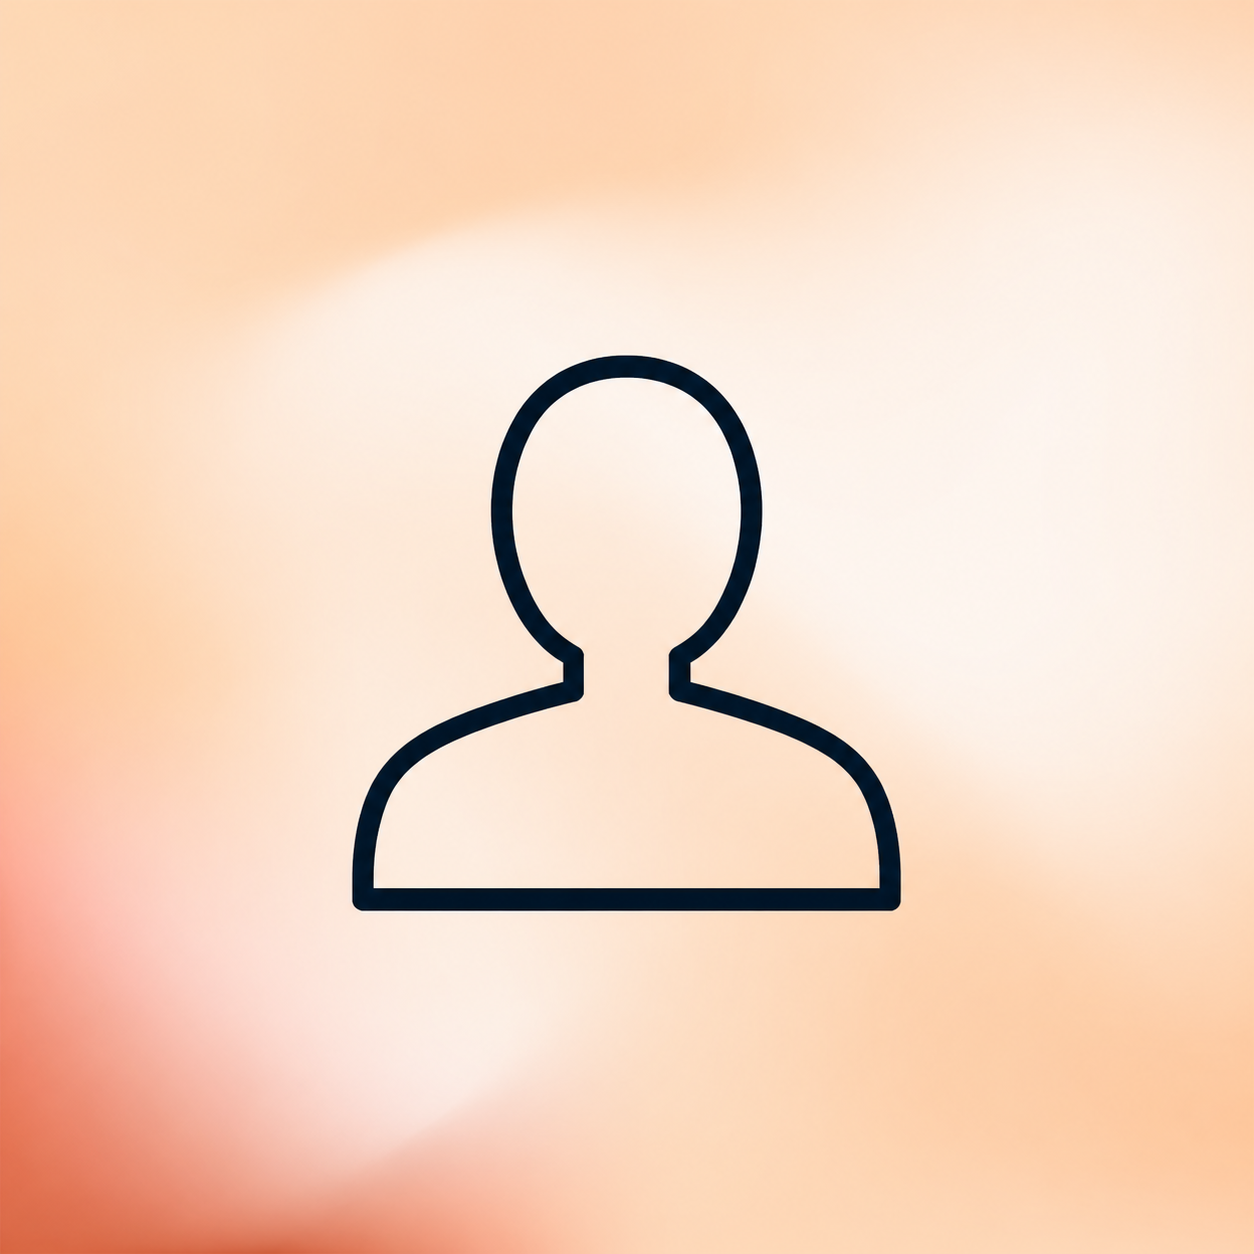
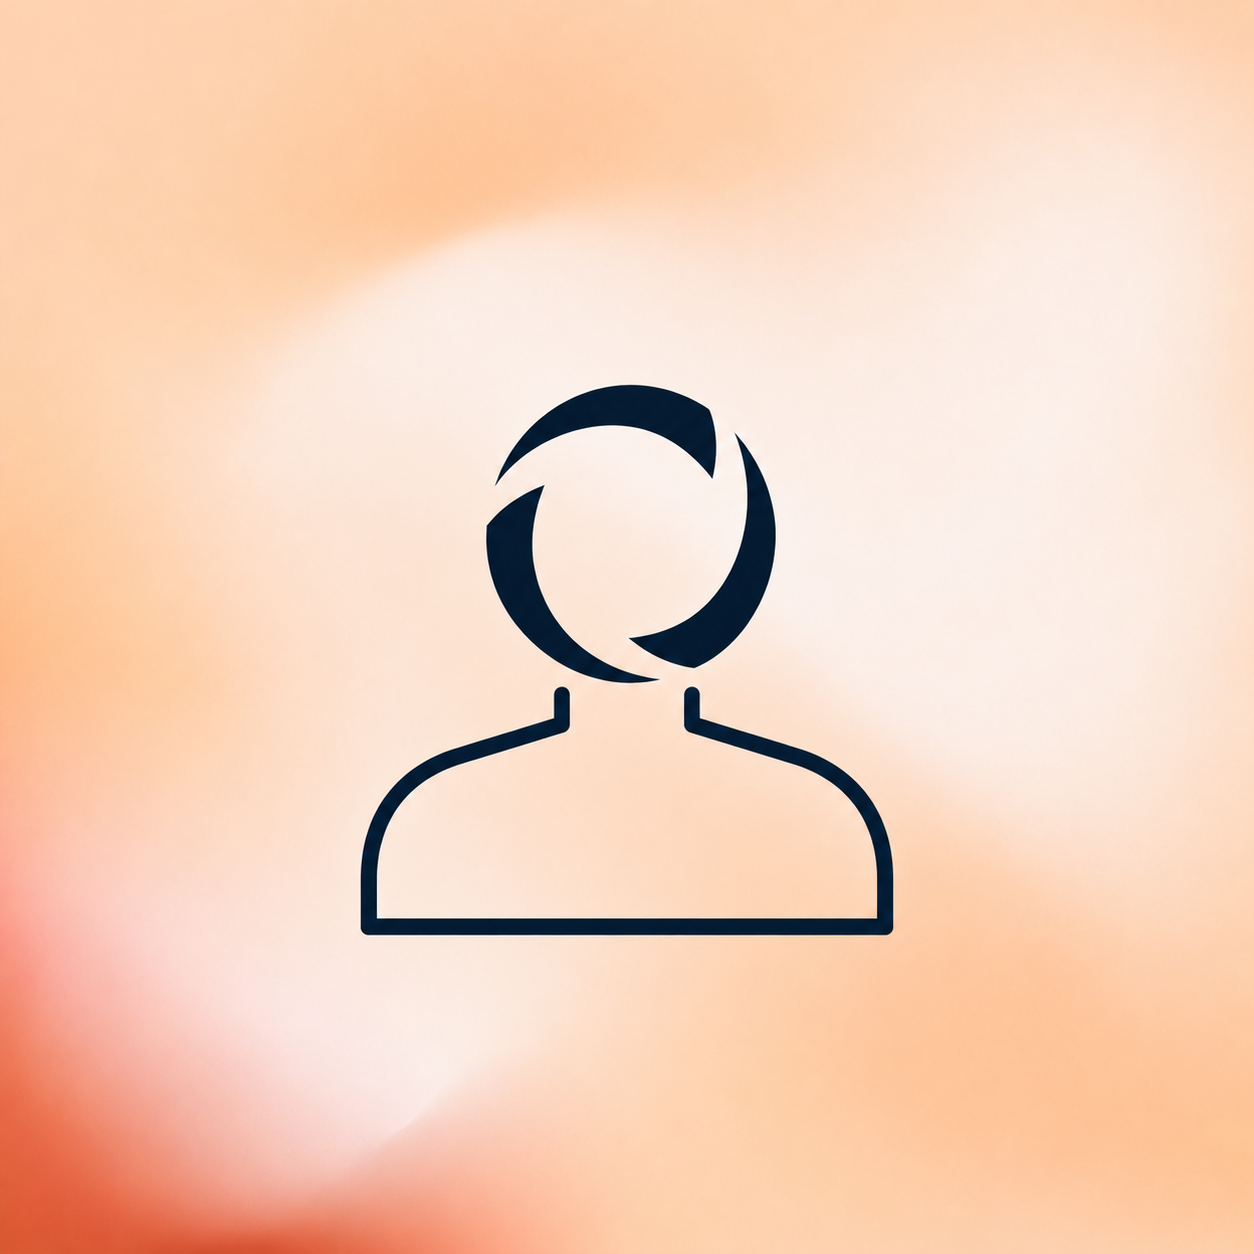
Update event years and speaker presentation

Changed region(s): [[0.2799, 0.2799, 0.7464, 0.7464], [0.2488, 0.1244, 0.3732, 0.2488], [0.1866, 0.9641, 0.2177, 0.9952]]

diff --git a/tests/speaker-sorting.test.ts b/tests/speaker-sorting.test.ts
@@ -1,0 +1,56 @@
+import { describe, expect, it } from "vitest";
+import { compareSpeakersBySurname } from "../src/utils/speaker-sorting";
+
+const canonicalNamesById = new Map([
+  ["peng-zhang", "Peng Zhang"],
+  ["shiwei-liu", "Shiwei Liu"],
+  ["sebastien-crozet", "Sébastien Crozet"],
+]);
+
+describe("speaker surname sorting", () => {
+  it("interleaves Chinese and English display names using canonical surnames", () => {
+    const speakers = [
+      { id: "peng-zhang", name: "张鹏", roleOrg: "创始人" },
+      { id: "shiwei-liu", name: "刘世伟", roleOrg: "研究员" },
+      { id: "sebastien-crozet", name: "Sébastien Crozet", roleOrg: "创始人" },
+    ];
+
+    expect(
+      speakers
+        .sort((a, b) =>
+          compareSpeakersBySurname(a, b, canonicalNamesById),
+        )
+        .map((speaker) => speaker.id),
+    ).toEqual(["sebastien-crozet", "shiwei-liu", "peng-zhang"]);
+  });
+
+  it("keeps all co-speakers after primary speakers", () => {
+    const speakers = [
+      { id: "xun-wang", name: "Xun Wang", roleOrg: "联合讲师" },
+      { id: "peng-zhang", name: "Peng Zhang", roleOrg: "Founder" },
+      { id: "pieter-delobelle", name: "Pieter Delobelle", roleOrg: "Co-speaker" },
+      { id: "shiwei-liu", name: "Shiwei Liu", roleOrg: "Researcher" },
+    ];
+
+    expect(speakers.sort(compareSpeakersBySurname).map((speaker) => speaker.id)).toEqual([
+      "shiwei-liu",
+      "peng-zhang",
+      "pieter-delobelle",
+      "xun-wang",
+    ]);
+  });
+
+  it("handles family-name-first and compound submitted names", () => {
+    const speakers = [
+      { id: "sebastien-crozet", name: "Sébastien Crozet" },
+      { id: "chen-xin", name: "Chen Xin" },
+      { id: "bryce-adelstein-lelbach", name: "Bryce Adelstein Lelbach" },
+    ];
+
+    expect(speakers.sort(compareSpeakersBySurname).map((speaker) => speaker.id)).toEqual([
+      "bryce-adelstein-lelbach",
+      "chen-xin",
+      "sebastien-crozet",
+    ]);
+  });
+});

diff --git a/src/utils/speaker-sorting.ts b/src/utils/speaker-sorting.ts
@@ -1,0 +1,58 @@
+type SpeakerForSorting = {
+  id: string;
+  name: string;
+  roleOrg?: string;
+};
+
+type CanonicalNamesById = ReadonlyMap<string, string>;
+
+const surnameCollator = new Intl.Collator("en", {
+  numeric: true,
+  sensitivity: "base",
+});
+
+// These submitted names use a mononym, family-name-first order, or a compound
+// surname that cannot be derived reliably by taking the final word.
+const surnameOverrides: Record<string, string> = {
+  "alba-maria-tellez-fernandez": "Téllez Fernández",
+  "bryce-adelstein-lelbach": "Adelstein Lelbach",
+  "chen-xin": "Chen",
+  codingma: "Ma",
+};
+
+const isCoSpeaker = (speaker: SpeakerForSorting) => {
+  const role = speaker.roleOrg?.trim().toLocaleLowerCase() || "";
+  return role === "co-speaker" || role === "联合讲师";
+};
+
+const getSurname = (
+  speaker: SpeakerForSorting,
+  canonicalNamesById?: CanonicalNamesById,
+) => {
+  const override = surnameOverrides[speaker.id];
+  if (override) return override;
+
+  const canonicalName = canonicalNamesById?.get(speaker.id) || speaker.name;
+  const nameParts = canonicalName.trim().split(/\s+/);
+  return nameParts.at(-1) || canonicalName;
+};
+
+export const compareSpeakersBySurname = (
+  a: SpeakerForSorting,
+  b: SpeakerForSorting,
+  canonicalNamesById?: CanonicalNamesById,
+) => {
+  const speakerTypeOrder = Number(isCoSpeaker(a)) - Number(isCoSpeaker(b));
+  if (speakerTypeOrder !== 0) return speakerTypeOrder;
+
+  const surnameOrder = surnameCollator.compare(
+    getSurname(a, canonicalNamesById),
+    getSurname(b, canonicalNamesById),
+  );
+  if (surnameOrder !== 0) return surnameOrder;
+
+  const canonicalNameA = canonicalNamesById?.get(a.id) || a.name;
+  const canonicalNameB = canonicalNamesById?.get(b.id) || b.name;
+  const nameOrder = surnameCollator.compare(canonicalNameA, canonicalNameB);
+  return nameOrder !== 0 ? nameOrder : a.id.localeCompare(b.id);
+};

diff --git a/src/utils/speaker-images.ts b/src/utils/speaker-images.ts
@@ -4,10 +4,18 @@ export const SPEAKER_PLACEHOLDER_IMAGE =
 export const SPEAKER_IMAGE_FALLBACK_HANDLER =
   `this.onerror=null;this.src='${SPEAKER_PLACEHOLDER_IMAGE}'`;
 
+const SPEAKER_PLACEHOLDER_IDS = new Set([
+  "bartlomiej-szejny",
+  "chenghao-rong",
+  "chen-xin",
+  "shuyue-hu",
+  "xin-liu",
+]);
+
 export const getSpeakerImagePath = (speakerId?: string) => {
   const normalizedId = speakerId?.trim();
 
-  return normalizedId
+  return normalizedId && !SPEAKER_PLACEHOLDER_IDS.has(normalizedId)
     ? `/images/speakers/confirmed/${normalizedId}.png`
     : SPEAKER_PLACEHOLDER_IMAGE;
 };

diff --git a/tests/speaker-images.test.ts b/tests/speaker-images.test.ts
@@ -18,4 +18,14 @@ describe("speaker image paths", () => {
       SPEAKER_PLACEHOLDER_IMAGE,
     );
   });
+
+  it.each([
+    "bartlomiej-szejny",
+    "chenghao-rong",
+    "chen-xin",
+    "shuyue-hu",
+    "xin-liu",
+  ])("uses the placeholder instead of the GitHub identicon for %s", (speakerId) => {
+    expect(getSpeakerImagePath(speakerId)).toBe(SPEAKER_PLACEHOLDER_IMAGE);
+  });
 });
